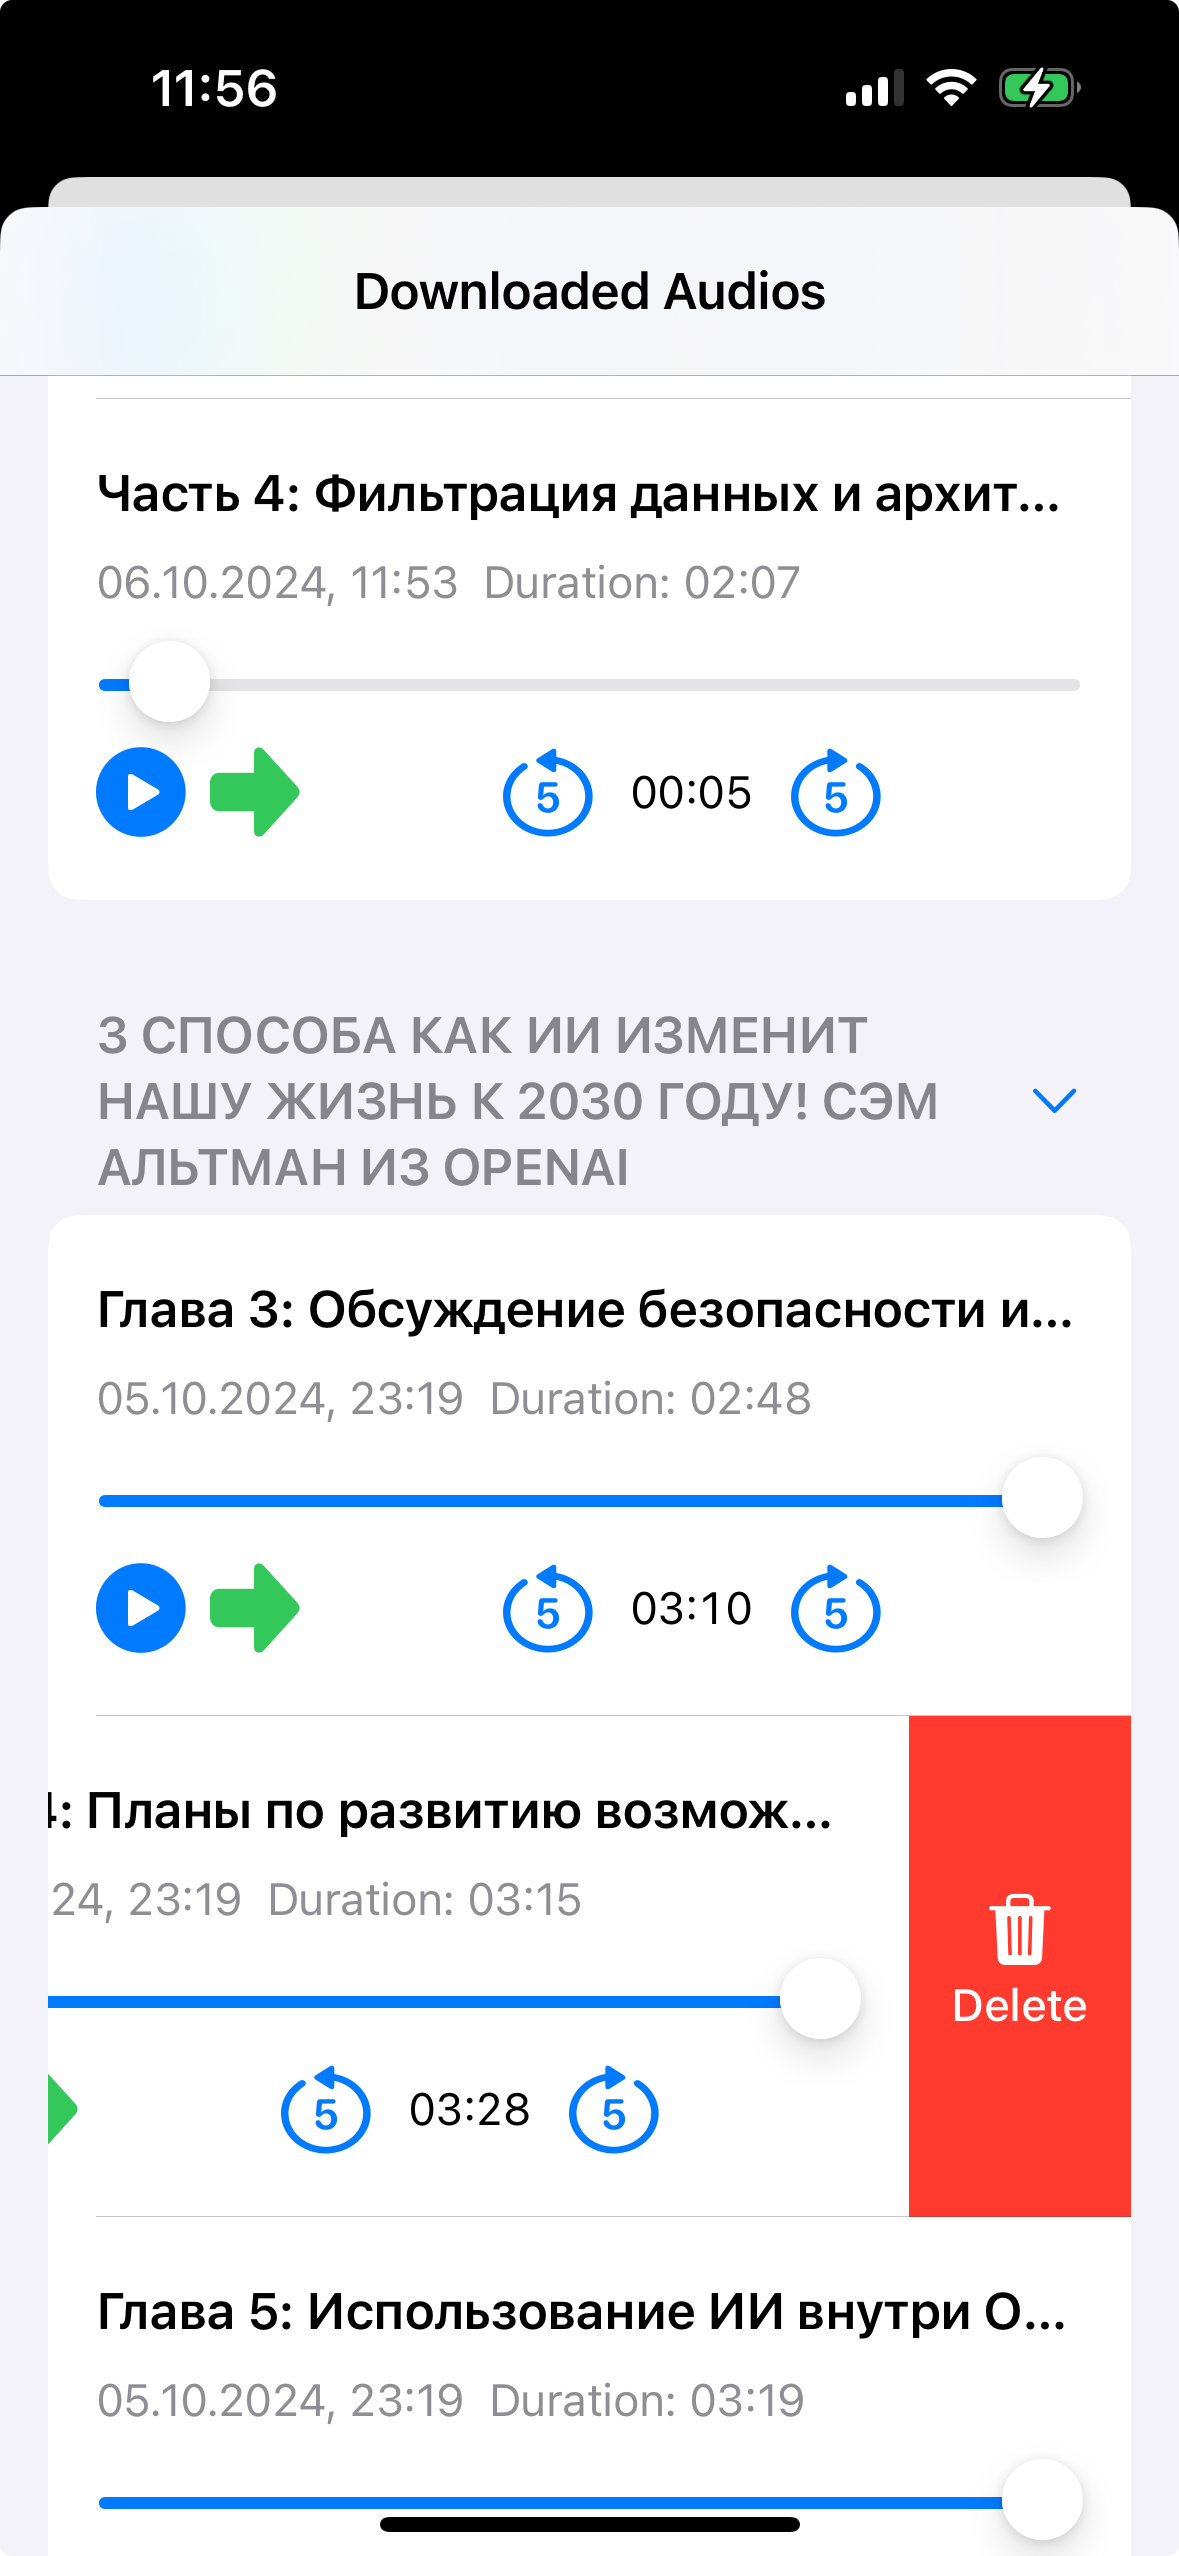
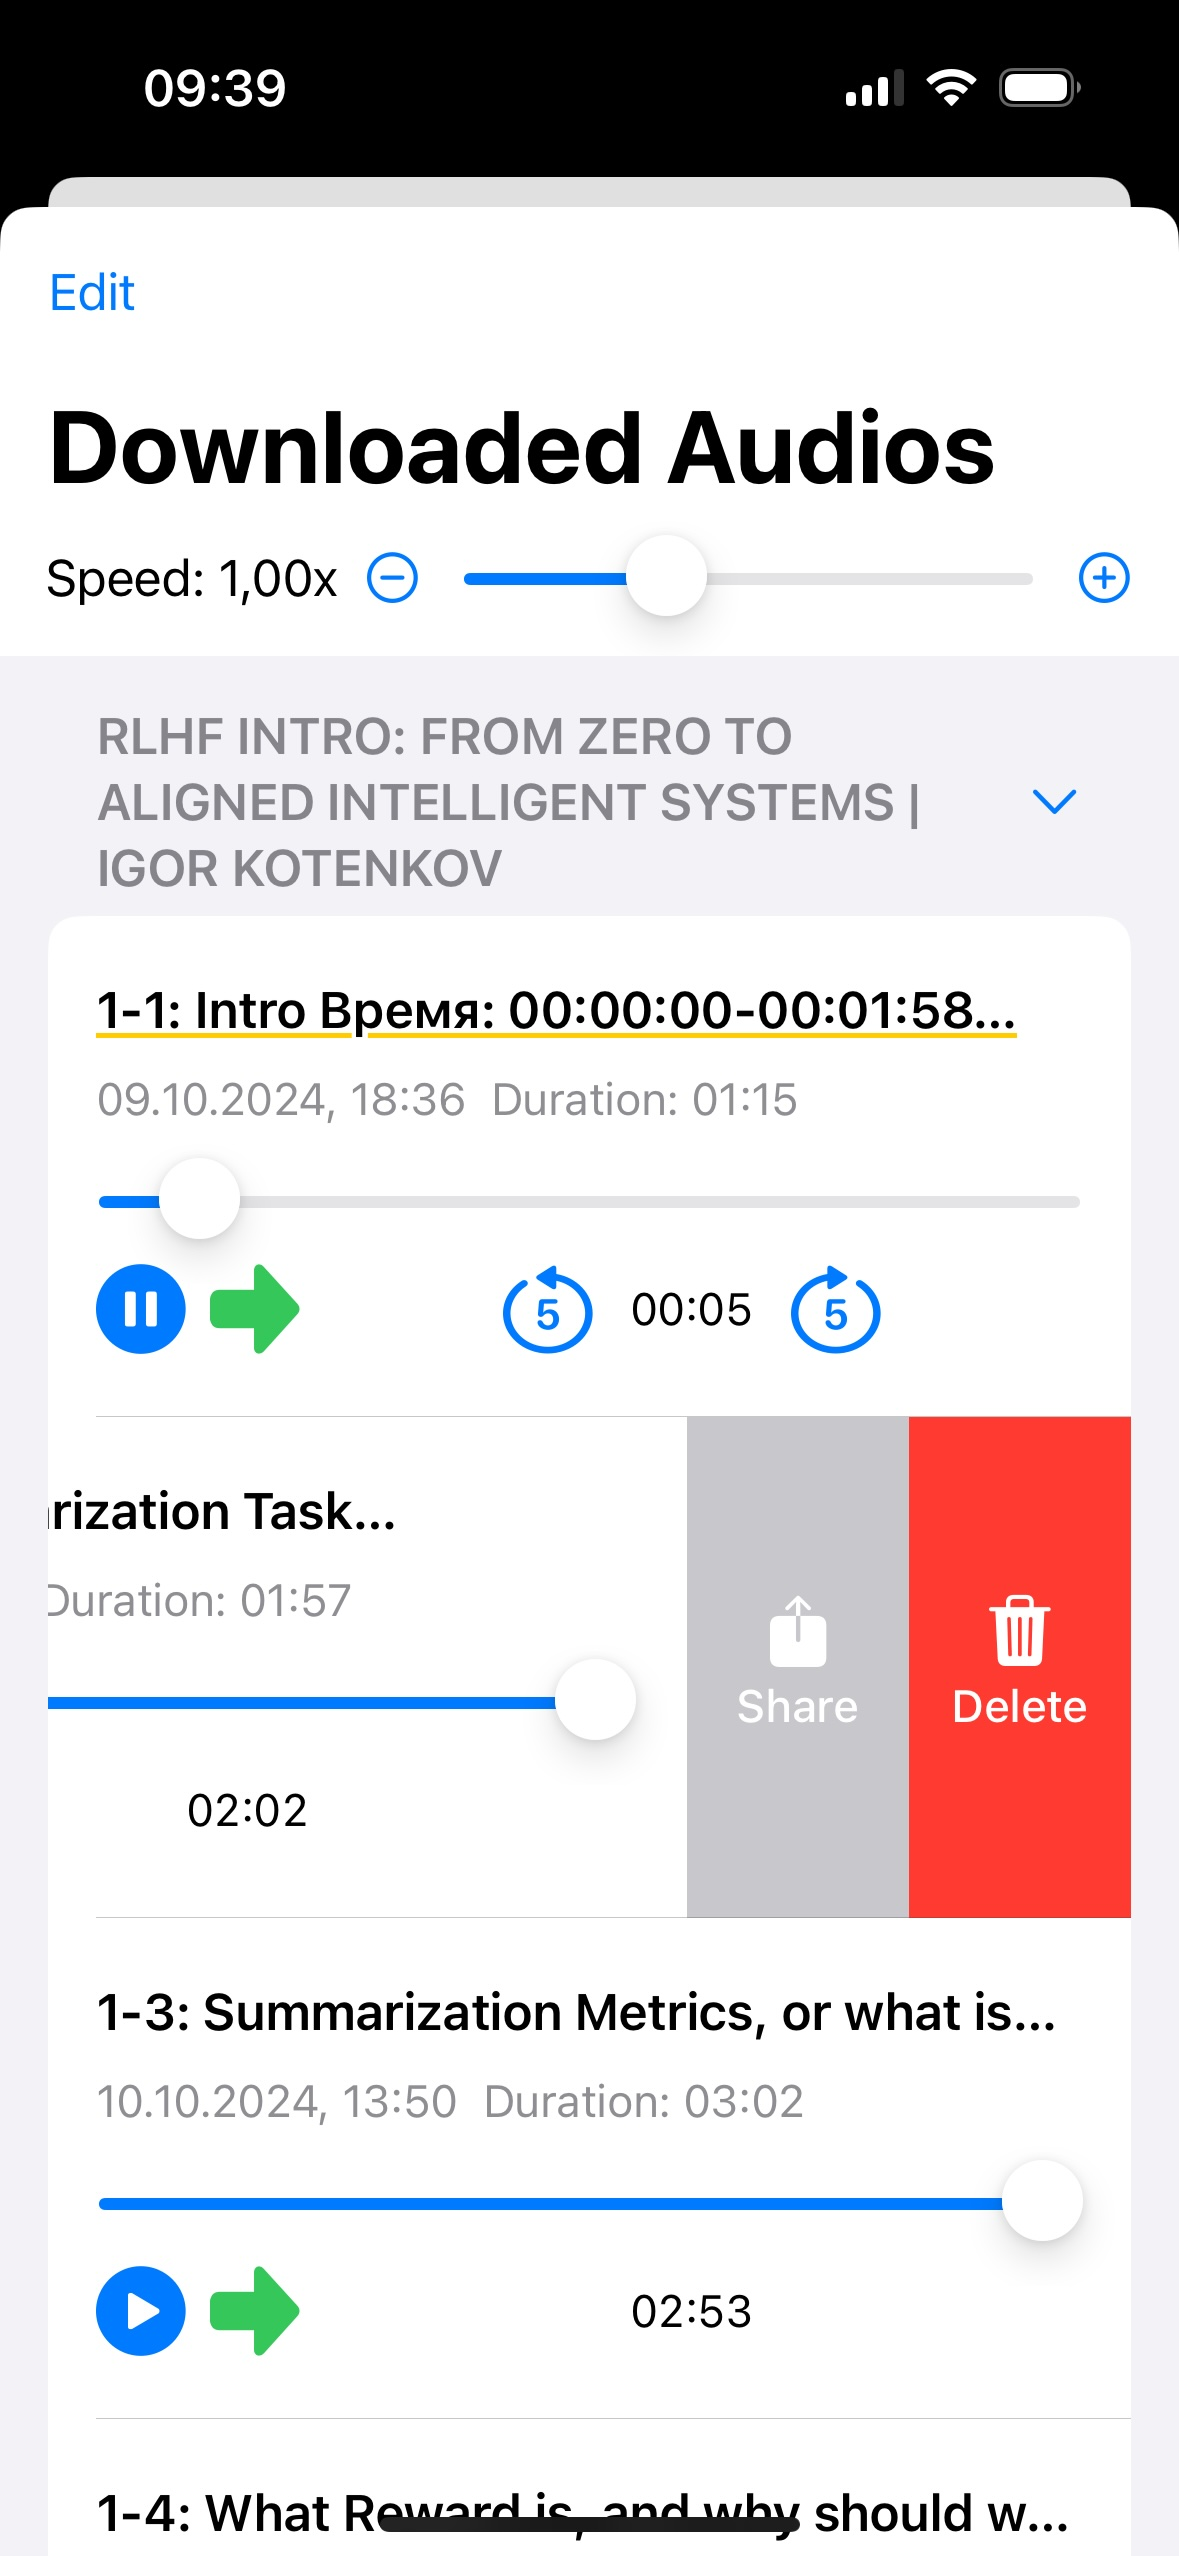
Adds audio sharing feature in AudioFetchGPT
- Introduced a new `ShareSheet` component in `ShareSheet.swift`, implementing `UIActivityViewController` for sharing content.
- Added a "Share" button in `AudioListView` to activate the sharing functionality.
- Integrated share sheet logic in `DownloadedAudiosListView` to display the share sheet and pass the selected audio link.
- Update `downloaded-view.jpeg` to the `Assets` folder.
- Enhanced app functionality by enabling direct sharing of downloaded audio files from the audio list.

diff --git a/AudioFetchGPT/Views/DownloadedAudios/DownloadedAudiosListView.swift b/AudioFetchGPT/Views/DownloadedAudios/DownloadedAudiosListView.swift
@@ -18,6 +18,9 @@ struct DownloadedAudiosListView: View {
     @State var showErrorAlert: Bool = false
     @State var errorMessage: String = ""
 
+    @State private var showShareSheet = false
+    @State private var shareItems: [URL] = []
+
     var groupedAudios: [UUID: [DownloadedAudio]] {
         Dictionary(grouping: downloadedAudios.items, by: { UUID(uuidString: $0.conversationId)! })
     }
@@ -37,11 +40,17 @@ struct DownloadedAudiosListView: View {
                                                               isCollapsed: downloadedAudios.collapsedSections.contains(conversationId))
                             ) {
                                 if !downloadedAudios.collapsedSections.contains(conversationId) {
-                                    AudioListView(audios: groupedAudios[conversationId] ?? [],
-                                                  onDelete: deleteAudio,
-                                                  onMove: { indices, newOffset in
-                                                      moveAudio(conversationId: conversationId, indices: indices, newOffset: newOffset)
-                                                  })
+                                    AudioListView(
+                                        audios: groupedAudios[conversationId] ?? [],
+                                        onDelete: deleteAudio,
+                                        onMove: { indices, newOffset in
+                                            moveAudio(conversationId: conversationId, indices: indices, newOffset: newOffset)
+                                        },
+                                        onShare: { audio in
+                                            shareItems = [audio.fileURL]
+                                            showShareSheet = true
+                                        }
+                                    )
                                 }
                             }
                         }
@@ -88,6 +97,13 @@ struct DownloadedAudiosListView: View {
                         message: Text(errorMessage),
                         dismissButton: .default(Text("OK"))
                     )
+                }
+                .sheet(isPresented: $showShareSheet) {
+                    ShareSheet(items: shareItems)
+                }
+                .onChange(of: showShareSheet) { _, _ in
+                    // This change handler is necessary to ensure that shareItems are updated when showShareSheet changes
+                    // Without it, shareItems in .sheet(isPresented: $showShareSheet) might be empty
                 }
             }
         }

diff --git a/AudioFetchGPT/Views/DownloadedAudios/AudioListView.swift b/AudioFetchGPT/Views/DownloadedAudios/AudioListView.swift
@@ -11,6 +11,7 @@ struct AudioListView: View {
     var audios: [DownloadedAudio]
     var onDelete: (DownloadedAudio) -> Void
     var onMove: (IndexSet, Int) -> Void // Callback for moving items
+    var onShare: (DownloadedAudio) -> Void
 
     var body: some View {
         ForEach(audios) { audio in
@@ -21,6 +22,12 @@ struct AudioListView: View {
                         onDelete(audio)
                     } label: {
                         Label("Delete", systemImage: "trash")
+                    }
+
+                    Button {
+                        onShare(audio)
+                    } label: {
+                        Label("Share", systemImage: "square.and.arrow.up")
                     }
                 }
         }

diff --git a/AudioFetchGPT/Features/ShareSheet.swift b/AudioFetchGPT/Features/ShareSheet.swift
@@ -1,0 +1,20 @@
+//
+//  ShareSheet.swift
+//  AudioFetchGPT
+//
+//  Created by Viktor Kushnerov on 5.11.24.
+//
+
+
+import SwiftUI
+import UIKit
+
+struct ShareSheet: UIViewControllerRepresentable {
+    var items: [Any]
+    
+    func makeUIViewController(context: Context) -> UIActivityViewController {
+        UIActivityViewController(activityItems: items, applicationActivities: nil)
+    }
+    
+    func updateUIViewController(_ uiViewController: UIActivityViewController, context: Context) {}
+}

diff --git a/README.md b/README.md
@@ -9,7 +9,7 @@
   <img src="./Assets/downloaded-view.jpeg" width="200" />
   <img src="./Assets/downloaded-view-2.jpeg" width="200" /> 
   <img src="./Assets/texteditor-view.jpeg" width="200" />
-  <img src="./Assets/lockscreen.jpg" width="200" />
+  <img src="./Assets/lockscreen.jpeg" width="200" />
 </p>
 
 ## Key Features
